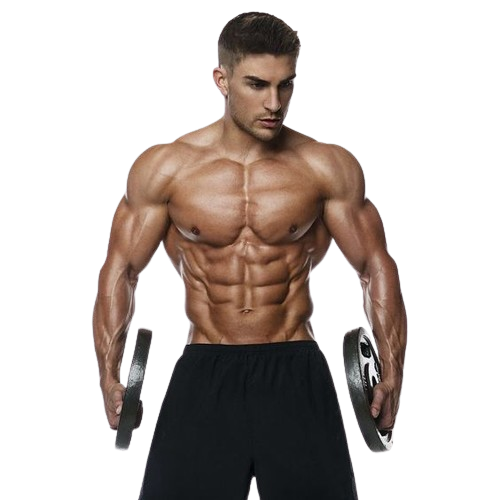
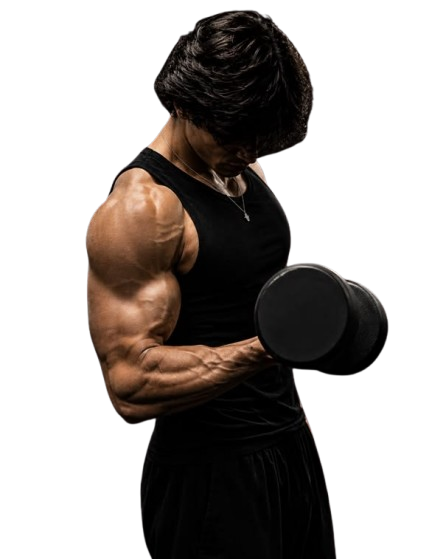
refactor: clean up unused CSS classes and improve image layout in About component

diff --git a/src/component/About.tsx b/src/component/About.tsx
@@ -21,14 +21,33 @@ export default function About(props: any) {
                         <p className='lorem'>Lorem ipsum dolor sit amet consectetur adipisicing elit. Eius dolorem illum, iure perferendis, dolor alias quisquam accusamus, dignissimos soluta molestias nemo ipsa aut. Perferendis neque ullam fugit aut vitae aspernatur!
                         </p>
                     </div>
-                    <div className='info-image'>
-                        <div className='two'>
-                            <img className='info-img-inner-01' src={img1} alt="" />
-                            <img className='info-img-inner-02 upper' src={img2} alt="" />
+                    <div className="flex h-[500px] w-[400px] flex-col items-center justify-center">
+                        <div className="flex">
+                            <img
+                                className="relative z-20 h-[220px] w-[200px] rounded-[10px] p-[1%]"
+                                src={img1}
+                                alt=""
+                            />
+
+                            <img
+                                className="relative top-[100px] left-[5px] z-20 h-[120px] w-[120px] rounded-[10px] border border-white p-[2%] transition-transform duration-1000 hover:z-30 hover:scale-110"
+                                src={img2}
+                                alt=""
+                            />
                         </div>
-                        <div className='two'>
-                            <img className='info-img-inner-02 lower' src={img3} alt="" />
-                            <img className='info-img-inner-01' src={img4} alt="" />
+
+                        <div className="flex">
+                            <img
+                                className="relative right-[1px] top-[5px] z-20 h-[120px] w-[120px] rounded-[10px] border border-white p-[2%] transition-transform duration-1000 hover:z-30 hover:scale-110"
+                                src={img3}
+                                alt=""
+                            />
+
+                            <img
+                                className="relative z-20 h-[220px] w-[200px] top-1.25 left-[5px] rounded-[10px] p-[1%]"
+                                src={img4}
+                                alt=""
+                            />
                         </div>
                     </div>
                 </div>
@@ -43,9 +62,13 @@ export default function About(props: any) {
             </div>
             <div className='About-meal-section'>
                 <div className='meal-about'>
-                    <div className='meal-image'>
-                        <img className='info-work-image roll' data-aos="fade-right" src={meal1} alt="" />
-                    </div>
+                    <div className="flex justify-center ">
+                        <img
+                            className="roll h-[400px] w-[800px] drop-shadow-[5px_5px_7px_white] max-[767px]:mt-5 max-[767px]:h-auto max-[767px]:w-[80%] max-[767px]:max-w-[280px]"
+                            data-aos="fade-right"
+                            src={meal1}
+                            alt=""
+                        />                    </div>
                     <div className='meal-text'>
                         <h2 className='head-line'>Easily Add Healthy Meals to Your Schedule</h2>
                         <p>DietDuo is your go-to platform for seamlessly incorporating nutritious meals into your daily routine. We understand the challenges of maintaining a balanced diet, especially with a busy lifestyle. Our easy-to-use interface allows you to select from a variety of healthy meal options tailored to your preferences.</p>
@@ -70,8 +93,12 @@ export default function About(props: any) {
                             Let us help you achieve a healthier, more active lifestyle. Start incorporating regular exercise into your daily schedule with DietDuo and experience the benefits of a balanced approach to wellness.
                         </p>
                     </div>
-                    <div className='work-image-about'>
-                        <img className='info-work-image' data-aos="fade-down" src={work1} alt="" />
+                    <div className="flex justify-center">
+                        <img
+                            className="relative top-[30px] h-[400px] w-[800px] drop-shadow-[5px_5px_7px_white] max-md:top-[10px] max-md:h-auto max-md:w-[90%]" data-aos="fade-down"
+                            src={work1}
+                            alt=""
+                        />
                     </div>
                 </div>
             </div>

diff --git a/src/CSS/About.css b/src/CSS/About.css
@@ -22,50 +22,6 @@
     font-size: 3.2rem;
 }
 
-.info-image {
-    flex: 45%;
-    display: flex;
-    justify-content: center;
-    flex-direction: column;
-    align-items: center;
-    height: 450px;
-    width: 250px;
-}
-
-.info-img-inner-01 {
-    height: 220px;
-    width: 200px;
-    border-radius: 10px;
-    padding: 1%;
-    z-index: 20;
-}
-
-.info-img-inner-02 {
-    height: 120px;
-    width: 120px;
-    border-radius: 10px;
-    padding: 2%;
-    border: 1px solid white;
-    position: relative;
-    z-index: 20;
-}
-
-.upper {
-    top: 40px;
-    left: 2px;
-}
-
-.lower {
-    bottom: 40px;
-    right: 1px;
-}
-
-.info-img-inner-02:hover {
-    transform: scale(1.1);
-    transition: 1s;
-    z-index: 30;
-}
-
 .about-2nd-story {
     background-color: #1A5319;
     min-height: 60vh;
@@ -101,12 +57,6 @@
     font-size: 3rem;
 }
 
-.meal-image {
-    align-items: center;
-    display: block;
-    margin: auto;
-}
-
 .meal-text {
     padding: 5% 3% 0% 3%;
 }
@@ -117,11 +67,6 @@
 
 .meal-text p {
     width: 90%;
-}
-
-.info-image {
-    height: 500px;
-    width: 400px;
 }
 
 .about-workout-section {
@@ -154,15 +99,6 @@
         max-height: auto;
         display: flex;
     }
-
-    .info-image {
-        display: flex;
-        flex-direction: column;
-        justify-content: center;
-        align-items: center;
-        height: 450px;
-        width: 400px;
-    }
 }
 
 @media (max-width: 767px) {
@@ -187,15 +123,6 @@
     .lorem {
         height: auto;
         margin-bottom: 20px;
-    }
-
-    .info-image {
-        display: flex;
-        justify-content: center;
-        flex-direction: column;
-        align-items: center;
-        height: 450px;
-        width: 250px;
     }
 
     .about-2nd-story {
@@ -227,9 +154,9 @@
         text-align: center;
     }
 
-    .about-workout-section .meal-about {
+    /* .about-workout-section .meal-about {
         flex-direction: column-reverse;
-    }
+    } */
 
     .meal-text,
     .work-text {
@@ -247,13 +174,6 @@
 
     .extra-p {
         display: none;
-    }
-
-    .info-work-image {
-        height: auto;
-        width: 80%;
-        max-width: 280px;
-        margin-top: 20px;
     }
 
     .roll {

diff --git a/src/component/Addtomeal_Modal.tsx b/src/component/Addtomeal_Modal.tsx
@@ -61,7 +61,7 @@ export default function Addtomeal_Modal(props: any) {
             <button onClick={handleCloseAdd} className="meal-modal-close" aria-label="Close">✕</button>
             <div className="meal-modal-hero-title-wrap">
               <div className="flex justify-between gap-2">
-                <h5 className="meal-card-title flex-1">{data?.title}</h5>
+                <h5 className="meal-card-title flex-1 text-white!">{data?.title}</h5>
                 {data?.vegetarian === false && (
                   <div className='bg-red-500 h-5 w-5 rounded-full flex items-center justify-center'>
                     <Drumstick size={14} />

diff --git a/src/component/Day/Monday.tsx b/src/component/Day/Monday.tsx
@@ -43,8 +43,10 @@ export default function Monday(props: {
       <div className="meal-cards-grid">
         {data.length === 0 ? (
           <div className="meal-empty meal-empty--span">
-            <div className="meal-empty-icon" aria-hidden>
-              <UtensilsCrossed />
+            <div
+              className="mb-3 text-[2.5rem] grayscale-[20%] flex justify-center"
+              aria-hidden
+            >              <UtensilsCrossed />
             </div>
             <h3 className="display-font">Nothing here yet</h3>
             <p>

diff --git a/src/component/Workout/Monday_Workout.tsx b/src/component/Workout/Monday_Workout.tsx
@@ -33,7 +33,10 @@ export default function Monday_Workout(props: any) {
       <div className="meal-cards-grid">
         {data.length === 0 ? (
           <div className="meal-empty meal-empty--span">
-            <div className="meal-empty-icon" aria-hidden>
+            <div
+              className="mb-3 text-[2.5rem] grayscale-[20%] flex justify-center"
+              aria-hidden
+            >
               <BicepsFlexed />
             </div>
             <h3 className="display-font">Nothing here yet</h3>

diff --git a/src/CSS/Usermeal.css b/src/CSS/Usermeal.css
@@ -281,12 +281,6 @@
   background: rgba(0, 0, 0, 0.15);
 }
 
-.meal-empty-icon {
-  font-size: 2.5rem;
-  margin-bottom: 0.75rem;
-  filter: grayscale(0.2);
-}
-
 .meal-empty--span {
   grid-column: 1 / -1;
 }
